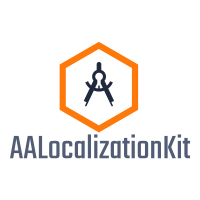
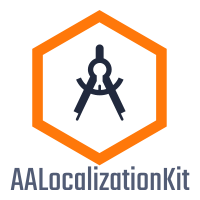
Verson 1.0

Changed region(s): [[0.03, 0.03, 0.96, 0.96]]

diff --git a/README.md b/README.md
@@ -1,8 +1,6 @@
-
-
-<center>![](https://github.com/EngrAhsanAli/AALocalizationKit/blob/master/Screenshots/AALocalizationKit.png)
-</center>
-
+<p align="center">
+  <img src= "https://raw.githubusercontent.com/EngrAhsanAli/AALocalizationKit/master/Screenshots/AALocalizationKit.png"/>
+</p>
 
 # Table of Contents
 
